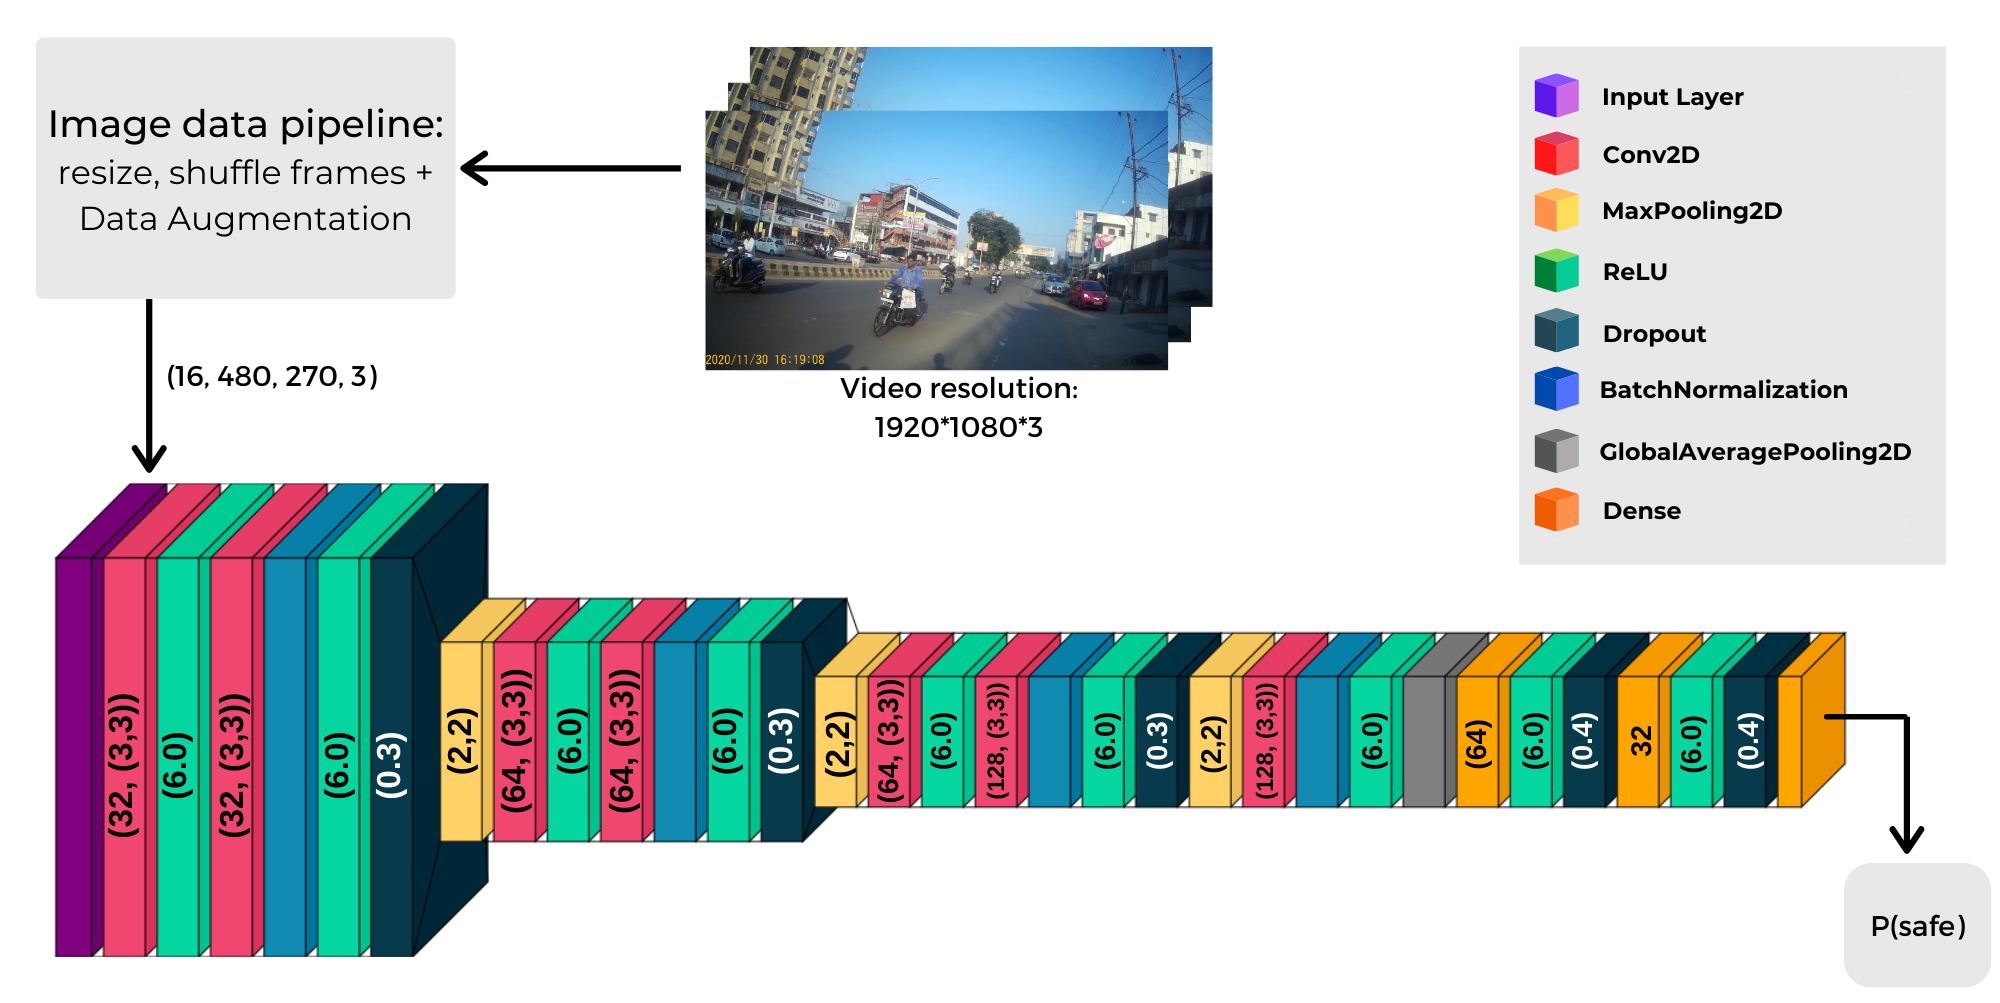
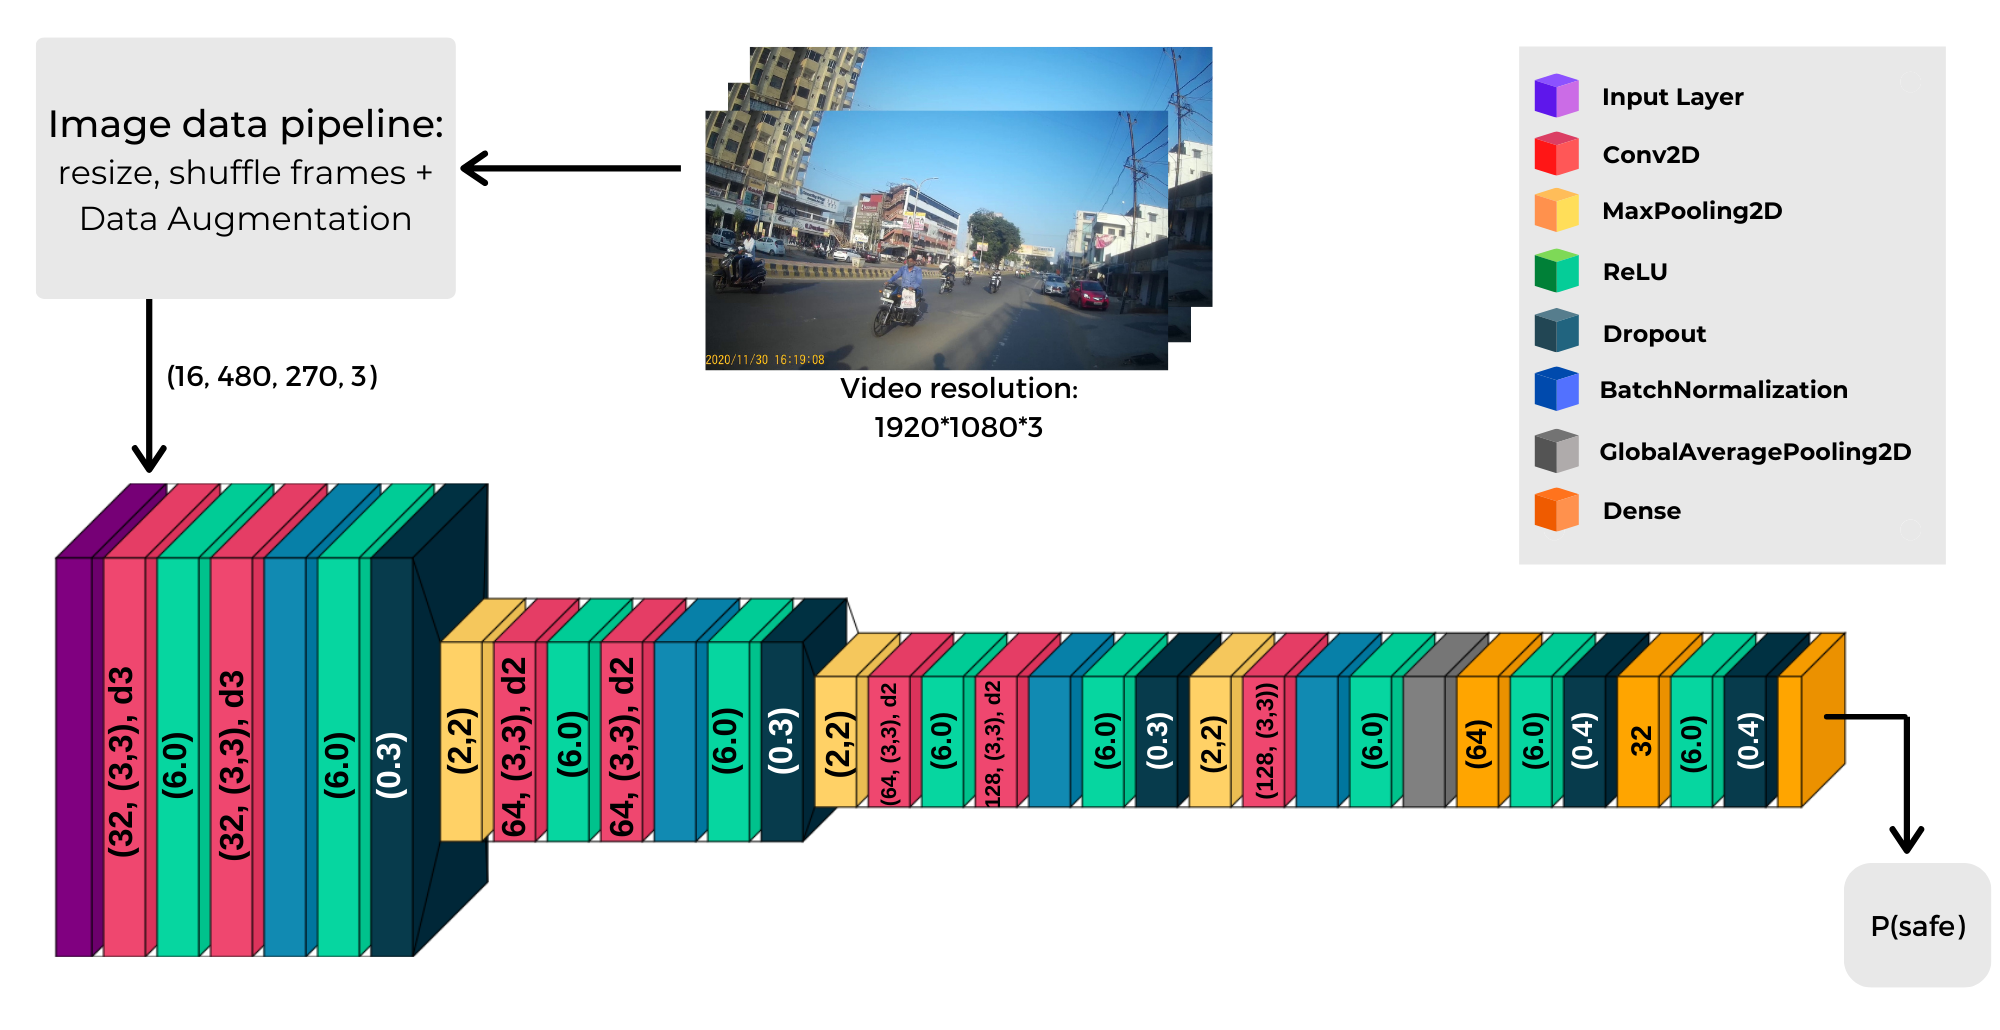
UPDATED: architecture for approach 3.3 in aporoach-3.html

diff --git a/approach-3.html b/approach-3.html
@@ -488,6 +488,10 @@
                               alt=""
                             />
                           </div>
+                          <strong>*Note:</strong> Conv2D layers annotated with
+                          d(size) are dilated convolution layers, where size
+                          denotes dilation_rate e.g. d2 means (2,2) and d3 means
+                          (3,3) for those layers.
                           <br />
                           By using dilated convolution in the model architecture
                           for our advantange, we are able to achieve higher
